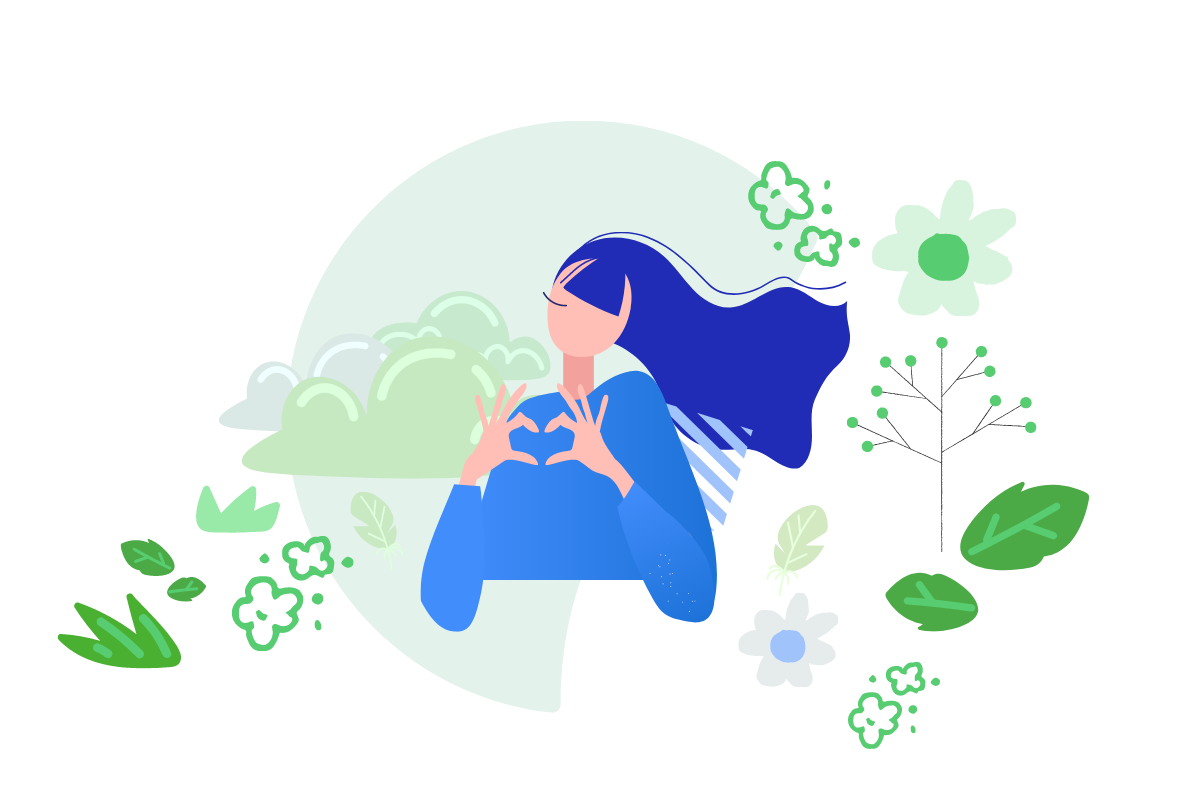
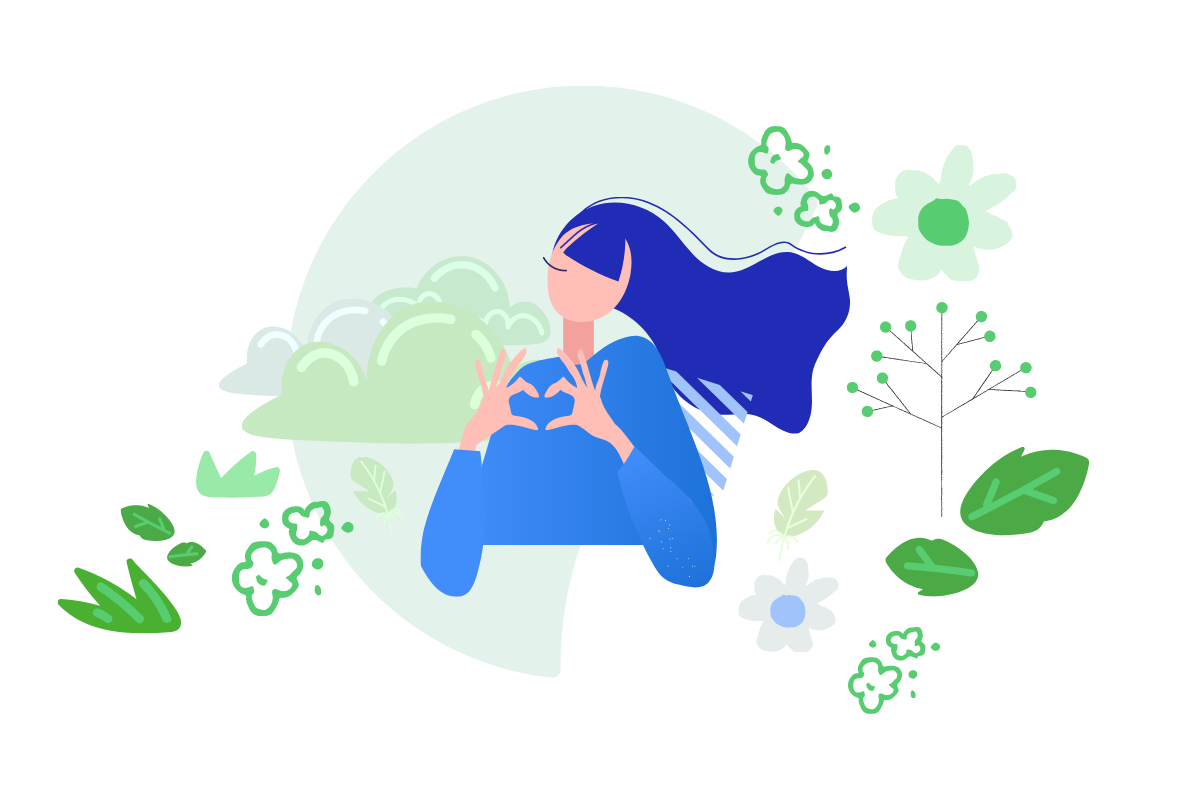
css update

Changed region(s): [[0.0308, 0.0938, 0.925, 0.9375]]

diff --git a/src/pages/global-style.scss b/src/pages/global-style.scss
@@ -25,7 +25,7 @@ html {
 
 body {
   font-family: 'Inter','Noto Sans JP', -apple-system, BlinkMacSystemFont, Roboto, Helvetica, Arial, sans-serif;
-  color: $text-color;
+  color: $dark-blue;
 }
 
 a {
@@ -471,25 +471,26 @@ button.navbar-burger {
 
 .block-main {
   text-align: center;
-  margin: 3rem auto 1.5rem;
+  margin: 3rem auto;
   padding: 1.5rem;
   background-image: url("../images/bk-shape-2-1280.png");
   background-position: center;
   background-size: cover;
+  max-width: 1344px;
 }
 
 @media #{$wide-device} {
   .block-main {
     padding: 0;
-    margin: 6rem auto 3rem;
+    margin: 6rem auto;
   }
 }
 
 .block-main .main-img {
   position: inherit;
   display: block;
-  max-width: 860px;
-  min-height: 440px;
+  max-width: 1024px;
+  min-height: 520px;
   background-image: url("../images/plants-1024.jpg");
   background-position: center;
   background-size: cover;
@@ -1390,6 +1391,7 @@ table {
   .header-wrapper {
     padding-top: 2rem;
     padding-bottom: 2rem;
+    margin-top: 3.25rem;
   }
 
   .about-wrapper {
